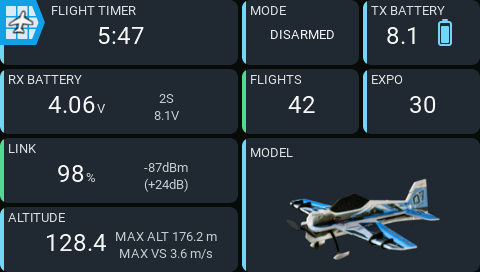
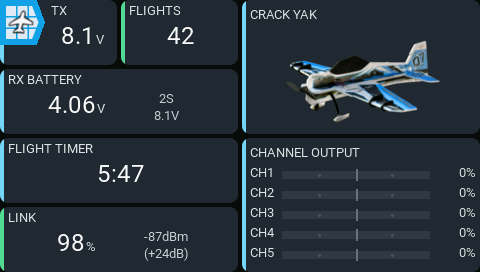
Improve the default aircraft dashboard
Replace specialist readings with channel outputs and arrange essential flight information beside the model image. Refresh dashboard documentation, native capture checks, and regression coverage.

diff --git a/tools/capture-editor.py b/tools/capture-editor.py
@@ -511,21 +511,28 @@ panels:
         refresh(context, widgetEvent, touchState)
         if #context.errors > 0 then error(table.concat(context.errors, "\\n")) end
         if not isFullScreen() or context.stage or context.reloadState or context.captureReady then return end
-        if #context.panels ~= 9 then return end
+        if #context.panels ~= 7 then return end
         local expected = {
             ["receiver-battery"] = "4.06", ["link"] = "98",
-            ["transmitter-battery"] = "8.1", ["altitude"] = "128.4",
+            ["transmitter-battery"] = "8.1",
             ["flight-clock"] = "5:47", ["flight-count"] = "42",
-            ["expo"] = "30", ["mode"] = "DISARMED",
         }
         for _, entry in ipairs(context.panels) do
             local instance = entry.instance
             if not instance or instance.stateName == "unavailable" or instance.stateName == "stale" then return end
             local text = expected[entry.placement.id]
-            assert(text or entry.placement.id == "identity", "Default layout changed; update capture checks")
+            assert(text or entry.placement.id == "identity" or entry.placement.id == "outputs",
+                "Default layout changed; update capture checks")
             if text and instance.text ~= text then return end
             if entry.placement.id == "identity" then
                 if not instance.image or not instance.feed.available or instance.feed.name ~= "Crack Yak" then return end
+            end
+            if entry.placement.id == "outputs" then
+                assert(instance.area.count >= 4, "Default outputs must fit the primary control channels")
+                if #instance.rows < instance.area.count then return end
+                for _, row in ipairs(instance.rows) do
+                    if not row.feed or not row.feed.available or not row.available then return end
+                end
             end
         end
         local file = assert(io.open("/capture-ready.txt", "w"))

diff --git a/tools/test_capture_theme.py b/tools/test_capture_theme.py
@@ -29,8 +29,8 @@ class ThemeCaptureTests(unittest.TestCase):
             self.assertIn("production Default dashboard and sample readings verified", source)
             self.assertIn('["flight-clock"] = "5:47"', source)
             self.assertIn('["flight-count"] = "42"', source)
-            self.assertIn('["mode"] = "DISARMED"', source)
-            self.assertIn("if #context.panels ~= 9 then return end", source)
+            self.assertIn('entry.placement.id == "outputs"', source)
+            self.assertIn("if #context.panels ~= 7 then return end", source)
             self.assertNotIn('local scene = "', source)
             loader = (widget / "lib/dashboard_loader.lua").read_text()
             self.assertIn('loadScript("/WIDGETS/AeroGrid/capture-inputs.lua")', loader)

diff --git a/docs/user-guide/add-dashboard.md b/docs/user-guide/add-dashboard.md
@@ -57,7 +57,7 @@ Choose a layout to decide what that dashboard displays.
 | Layout | Purpose |
 | --- | --- |
 | **Empty** | A blank starting point for your own dashboard. Shows instructions until you start editing. |
-| **Default** | A ready-made aircraft dashboard. Configure its sources, switches, battery cell count, and alarms for your model before using it. |
+| **Default** | Flight timer, transmitter and receiver batteries, link status, flight count, channel outputs, and model image. Configure its sources, battery cell count, and alarms for your model before using it. |
 
 Bundled layouts are stored in `/WIDGETS/AeroGrid/layouts/`. Your saved layouts
 are stored separately in `/AEROGRID/layouts/`, so upgrading AeroGrid leaves

diff --git a/docs/developer-guide/tools.md b/docs/developer-guide/tools.md
@@ -100,7 +100,7 @@ build/capture-venv/bin/python tools/capture-editor.py --scene dashboard
 
 This captures the full display with **Default** and **Modern Dark**, without
 color/presentation overrides or an open editor. It uses fixture model data and
-synthetic telemetry through real services. Readiness checks cover all nine
+synthetic telemetry through real services. Readiness checks cover all seven
 panels and their primary readings. Outputs are under
 `build/editor-capture/dashboard/`, with inputs/hashes in the root provenance.
 

diff --git a/docs/index.md b/docs/index.md
@@ -45,7 +45,7 @@ Use **Documentation version** in the header to match your installed release.
   </a>
 </div>
 
-![Full AeroGrid Default dashboard in Modern Dark, showing telemetry, flight timer, flight count, switch state, and a model image](assets/dashboard/dashboard.png)
+![Full AeroGrid Default dashboard in Modern Dark, showing batteries, link status, flight timer, flight count, channel outputs, and a model image](assets/dashboard/dashboard.png)
 
 The Default layout in Modern Dark, with illustrative readings.
 
